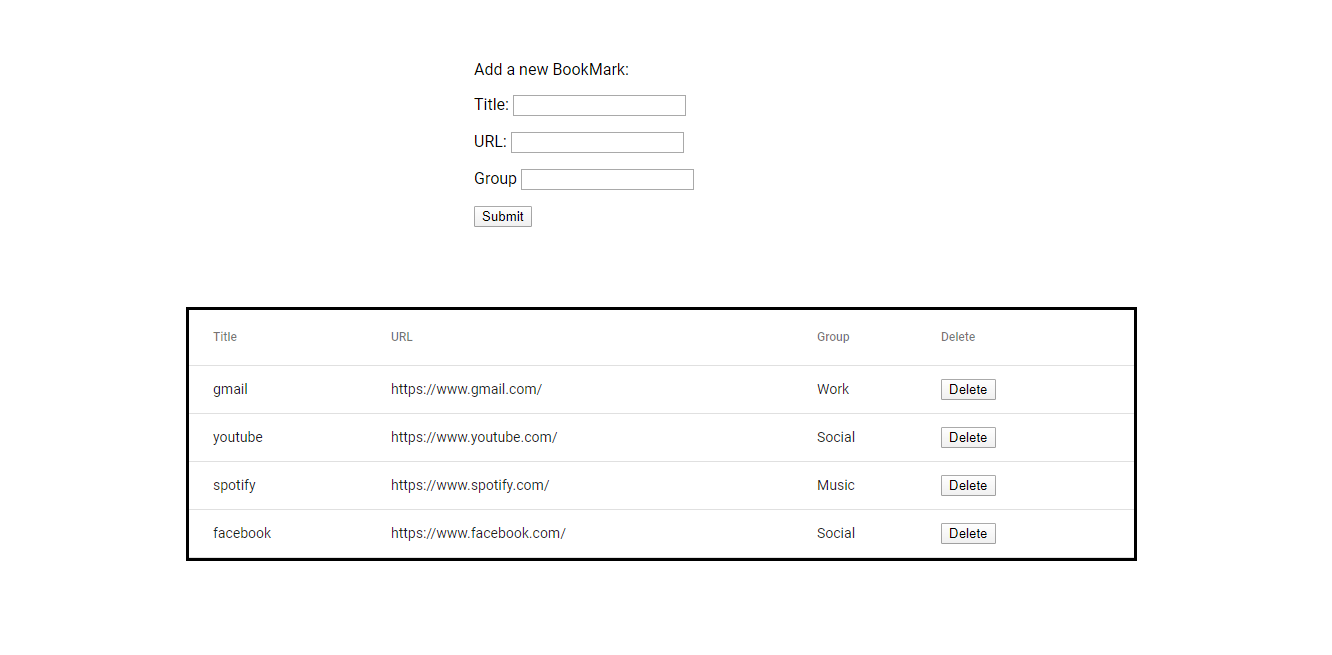
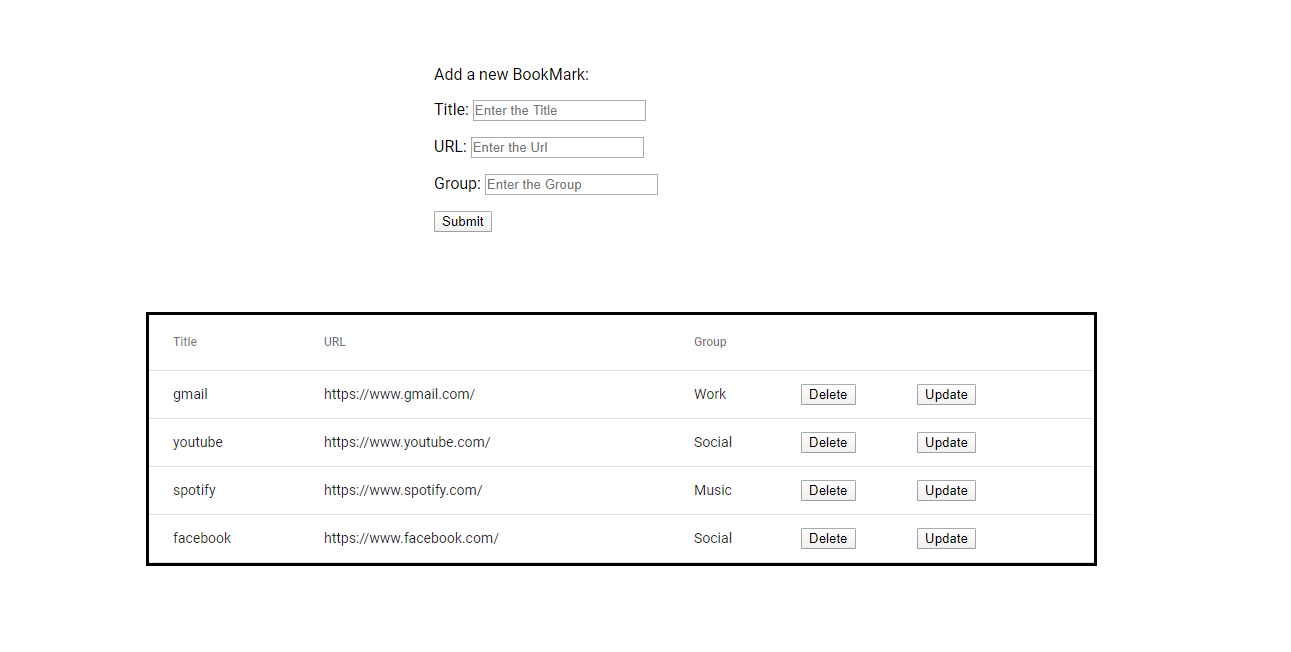
mejora código y visual final

diff --git a/src/app/book-marks/book-marks-component/book-marks.component.ts b/src/app/book-marks/book-marks-component/book-marks.component.ts
@@ -2,7 +2,7 @@ import { Component, OnInit, ViewChild } from '@angular/core';
 import { BookMark } from '../Types/book-marks.model';
 import { Store, Action, select } from '@ngrx/store';
 import { FormGroup, FormControl } from '@angular/forms';
-import { createBookMark, deleteBookMark, getBookMarks, createArrayBookMarks } from '../book-marks-store/book-marks.action';
+import { createBookMark, deleteBookMark, getBookMarks, createArrayBookMarks, updateBookMark } from '../book-marks-store/book-marks.action';
 import { BookMarksState } from '../book-marks-store/book-marks.state';
 import { Observable, Subscription } from 'rxjs';
 import { BookMarkReducer } from '../book-marks-store/book-marks.reducer';
@@ -46,13 +46,18 @@ export class BookMarksComponent implements OnInit {
 
   BookMarksState$: Observable<BookMarksState>;
   bookMarkSubs: Subscription;
-  displayedColumns: string[] = ['Title', 'URL', 'Group', 'Delete'];
+  displayedColumns: string[] = ['Title', 'URL', 'Group', 'Delete','Update'];
   dataSource = new MatTableDataSource();
   @ViewChild(MatSort, {static: true}) sort: MatSort;
   
-
+  update:boolean=false;
 
   bookMark: BookMark = {
+    Title: "",
+    URL: "",
+    Group: ""
+  }
+  previousBookMark: BookMark = {
     Title: "",
     URL: "",
     Group: ""
@@ -68,6 +73,7 @@ export class BookMarksComponent implements OnInit {
 
   public isAddOpen: boolean = false;
   public listBookmarks: BookMark[];
+
   
   constructor(private store: Store<BookMarksState>) {
     this.store.select(state => state).subscribe((response: any) => {
@@ -95,8 +101,31 @@ export class BookMarksComponent implements OnInit {
     this.dataSource.sort = this.sort;
   }
 
+  updateBookMarks(bookMark) {
+    this.update=true;
+    this.bookMark.Title = bookMark.Title;
+    this.bookMark.URL = bookMark.URL;
+    this.bookMark.Group = bookMark.Group;
+    this.previousBookMark.Title = bookMark.Title;
+    this.previousBookMark.URL = bookMark.URL;
+    this.previousBookMark.Group = bookMark.Group;
+    
+  }
+
+  updateBookMark(){
+    this.store.dispatch(new updateBookMark(this.bookMark,this.previousBookMark));
+    this.dataSource.sort = this.sort;
+    this.update=false;
+    this.clearForm();
+  }
+
   clearForm() {
     this.bookMark = {
+      Title: "",
+      URL: "",
+      Group: ""
+    }
+    this.previousBookMark = {
       Title: "",
       URL: "",
       Group: ""
@@ -104,9 +133,7 @@ export class BookMarksComponent implements OnInit {
   }
 
   initializeBookMarks() {
-      
     this.store.dispatch(new createArrayBookMarks(initializeArray));
-
   }
 
   ngOnDestroy() {

diff --git a/src/app/book-marks/book-marks-component/book-marks.component.html b/src/app/book-marks/book-marks-component/book-marks.component.html
@@ -1,18 +1,20 @@
-<form [formGroup]="profileForm" (ngSubmit)="addBookMark()">
-  <p>Add a new BookMark:</p>
+<form [formGroup]="profileForm">
+  <p *ngIf="!update">Add a new BookMark:</p>
+  <p *ngIf="update">Update The BookMark:</p>
   <p>
     Title:
-    <input type="text" [(ngModel)]="bookMark.Title" formControlName="Title">
+    <input type="text" [(ngModel)]="bookMark.Title" formControlName="Title" placeholder="Enter the Title">
   </p>
   <p>
     URL:
-    <input type="text" [(ngModel)]="bookMark.URL" formControlName="URL">
+    <input type="text" [(ngModel)]="bookMark.URL" formControlName="URL"  placeholder="Enter the Url">
   </p>
   <p>
-    Group
-    <input type="text" [(ngModel)]="bookMark.Group" formControlName="Group">
+    Group:
+    <input type="text" [(ngModel)]="bookMark.Group" formControlName="Group"  placeholder="Enter the Group">
   </p>
-  <button type="submit">Submit</button>
+  <button *ngIf="!update" type="submit" (click)="addBookMark()">Submit</button>
+  <button *ngIf="update" type="submit" (click)="updateBookMark()">Update</button>
 </form>
 
 <table mat-table [dataSource]="dataSource" matSort class="table">
@@ -35,6 +37,11 @@
   <ng-container matColumnDef="Delete">
     <th mat-header-cell *matHeaderCellDef></th>
     <td mat-cell *matCellDef="let bookmark"><button (click)="deleteBookMark(bookmark)">Delete</button> </td>
+  </ng-container>
+
+  <ng-container matColumnDef="Update">
+    <th mat-header-cell *matHeaderCellDef></th>
+    <td mat-cell *matCellDef="let bookmark"><button (click)="updateBookMarks(bookmark)">Update</button> </td>
   </ng-container>
 
   <tr mat-header-row *matHeaderRowDef="displayedColumns"></tr>

diff --git a/src/app/book-marks/book-marks-store/book-marks.reducer.ts b/src/app/book-marks/book-marks-store/book-marks.reducer.ts
@@ -9,13 +9,13 @@ export function BookMarkReducer(state: BookMarksState = initialState,
     action: Action) {
     switch (action.type) {
         case 'get_BookMarks':
-            console.log("hola2",action)
+            console.log("hola2", action)
             return {
                 ...state
             };
 
         case "initializate_List":
-            const listBookmarks:BookMark[] = (action as ActionWithPayload<BookMark[]>).payload;
+            const listBookmarks: BookMark[] = (action as ActionWithPayload<BookMark[]>).payload;
             return ({
                 ...state,
                 BookMarksList: state.BookMarksList.concat(listBookmarks)
@@ -25,6 +25,18 @@ export function BookMarkReducer(state: BookMarksState = initialState,
             return ({
                 ...state,
                 BookMarksList: state.BookMarksList.concat((action as ActionWithPayload<BookMark>).payload)
+            });
+
+        case 'update_BookMark':
+            return ({
+                ...state,
+                BookMarksList: state.BookMarksList.map((item,index) =>{                   
+                    if((action as ActionWithPayload<BookMark>).lastValue.Title === item.Title){
+                        return (action as ActionWithPayload<BookMark>).payload;
+                    }else{
+                        return item;
+                    }
+                })
             });
 
         case 'delete_BookMark':

diff --git a/src/app/book-marks/book-marks-store/book-marks.action.ts b/src/app/book-marks/book-marks-store/book-marks.action.ts
@@ -4,6 +4,7 @@ import { BookMark } from '../Types/book-marks.model';
 
 export default interface ActionWithPayload<T> extends Action {
     payload: T;
+    lastValue?: T;
 }
 
 export const getBookMarks = createAction('get_BookMarks');
@@ -25,6 +26,18 @@ export class createBookMark implements ActionWithPayload<BookMark> {
         this.payload = payload;
     }
 }
+
+export class updateBookMark implements ActionWithPayload<BookMark> {
+    readonly type = "update_BookMark";
+    payload: BookMark;
+    lastValue: BookMark;
+
+    constructor(payload: BookMark, lastValue: BookMark) {
+        this.payload = payload;
+        this.lastValue = lastValue;
+    }
+}
+
 export class deleteBookMark implements ActionWithPayload<BookMark> {
     readonly type = "delete_BookMark";
     payload: BookMark;
